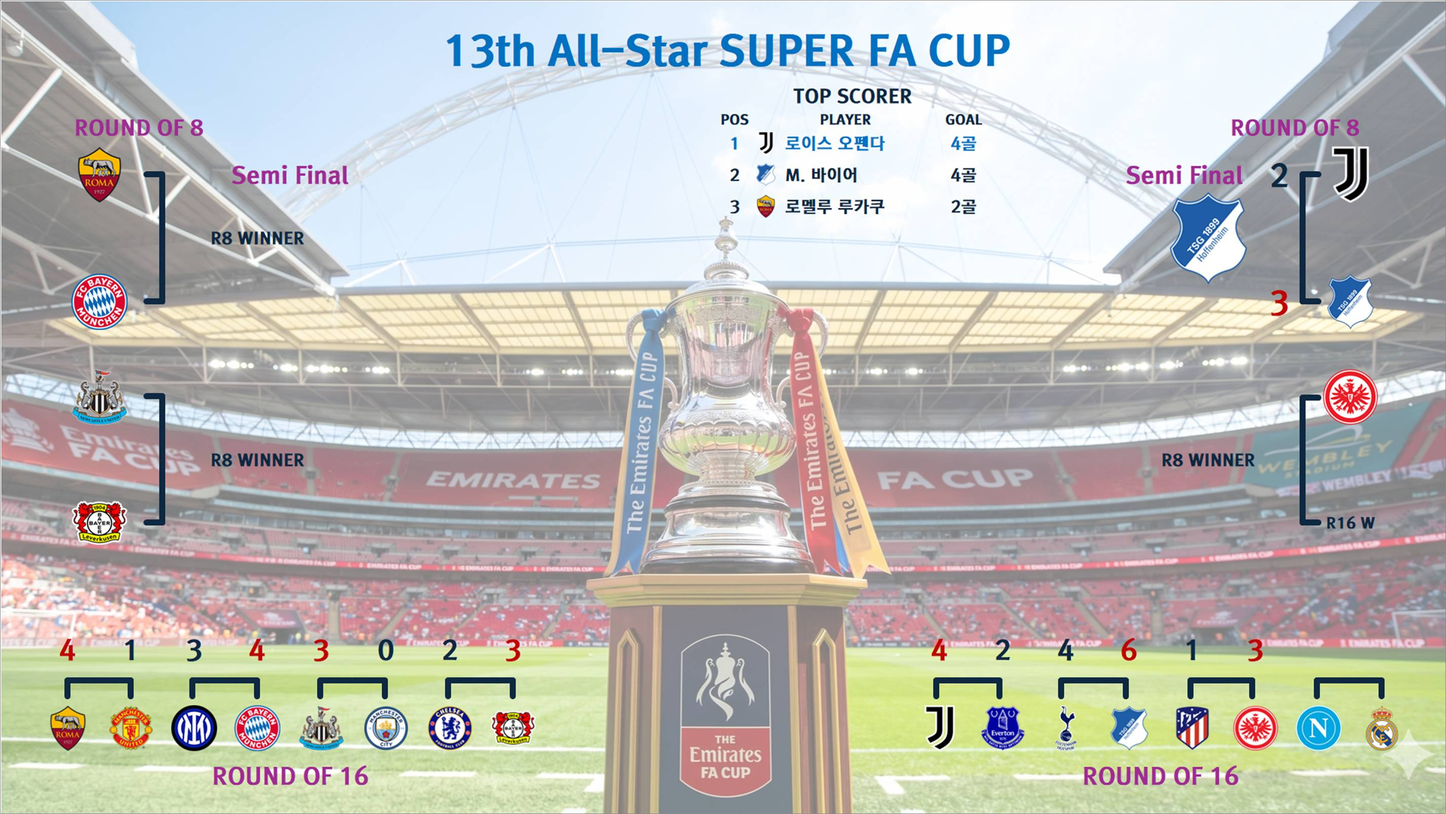
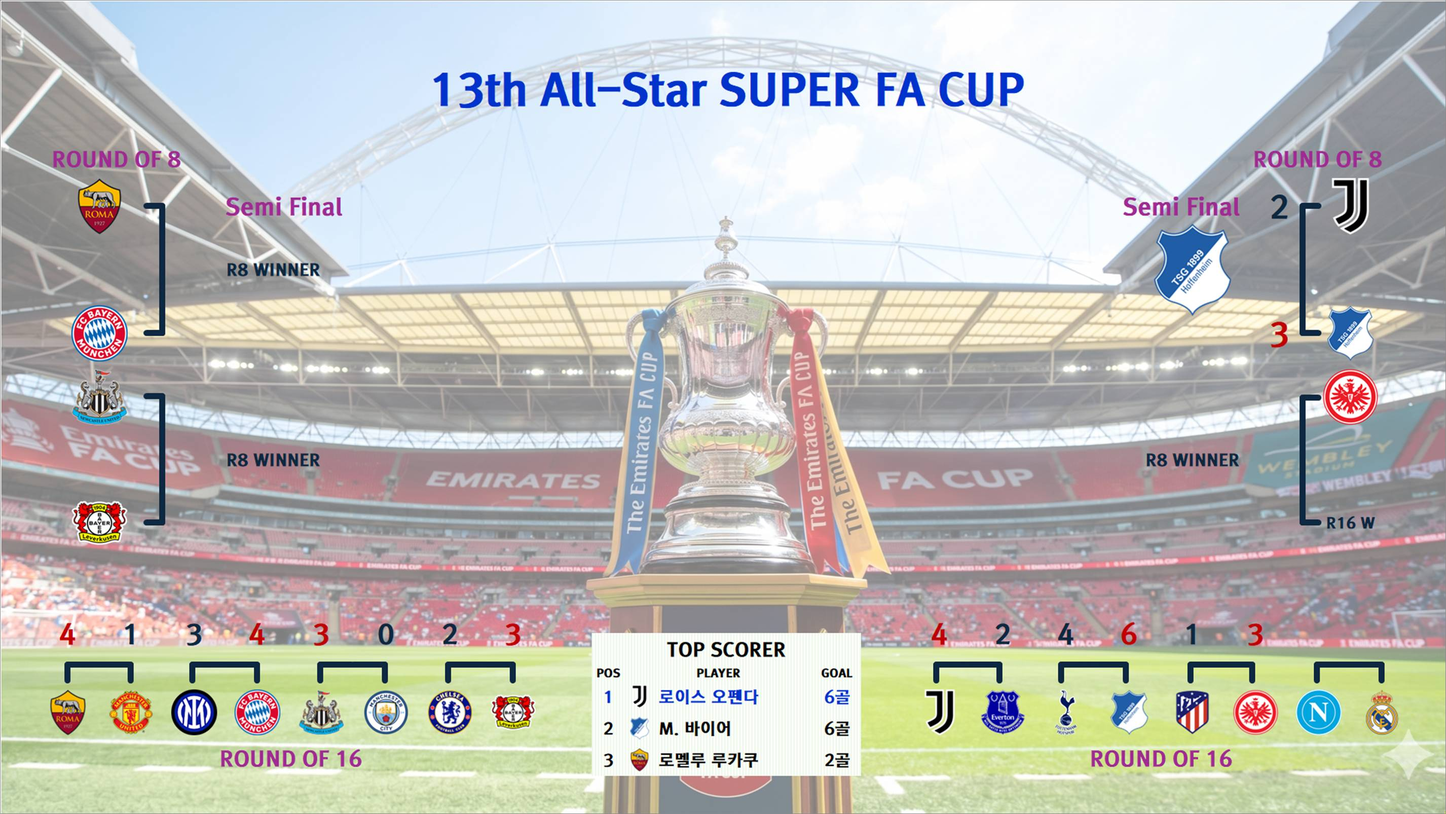
Optimize: 02:31:20

diff --git a/index.html b/index.html
@@ -69,9 +69,9 @@
     <div class="container">
         <div class="card"><h2>🥇 1부 리그 순위표</h2><img src="https://i.ibb.co/Lz9Jyx7J/677e42009441.jpg" alt="1부 리그"></div>
         <div class="card"><h2>🥈 2부 리그 순위표</h2><img src="https://i.ibb.co/FbPZm9G1/acbfb06b1736.jpg" alt="2부 리그"></div>
-        <div class="card"><h2>🏅 FA컵 토너먼트 대진표</h2><img src="https://i.ibb.co/7dXxX5Xh/b91be17cf5c1.jpg" alt="FA컵"></div>
+        <div class="card"><h2>🏅 FA컵 토너먼트 대진표</h2><img src="https://i.ibb.co/Fbp4n3Bn/898400cbe6d2.jpg" alt="FA컵"></div>
         <div class="card"><h2>🌟 UCL 그룹스테이지</h2><img src="https://i.ibb.co/VcvyGNP0/f59808f6e166.jpg" alt="UCL 조별"></div>
-        <div class="card"><h2>👑 GOLDEN BOOT (통합 득점왕)</h2><img src="https://i.ibb.co/Mx63z487/be2ec1b67117.jpg" alt="득점왕"></div>
+        <div class="card"><h2>👑 GOLDEN BOOT (통합 득점왕)</h2><img src="https://i.ibb.co/Hpp14NsZ/ecead83210af.jpg" alt="득점왕"></div>
         <div class="card"><h2>🏆 UCL 토너먼트 대진표</h2><img src="https://i.ibb.co/p6K0193R/091d269248eb.jpg" alt="UCL 토너"></div>
         <div class="card"><h2>🎖 UEL 토너먼트 대진표</h2><img src="https://i.ibb.co/GBscFqC/c9fe4ffa9dfe.jpg" alt="UEL 토너"></div>
     </div>
